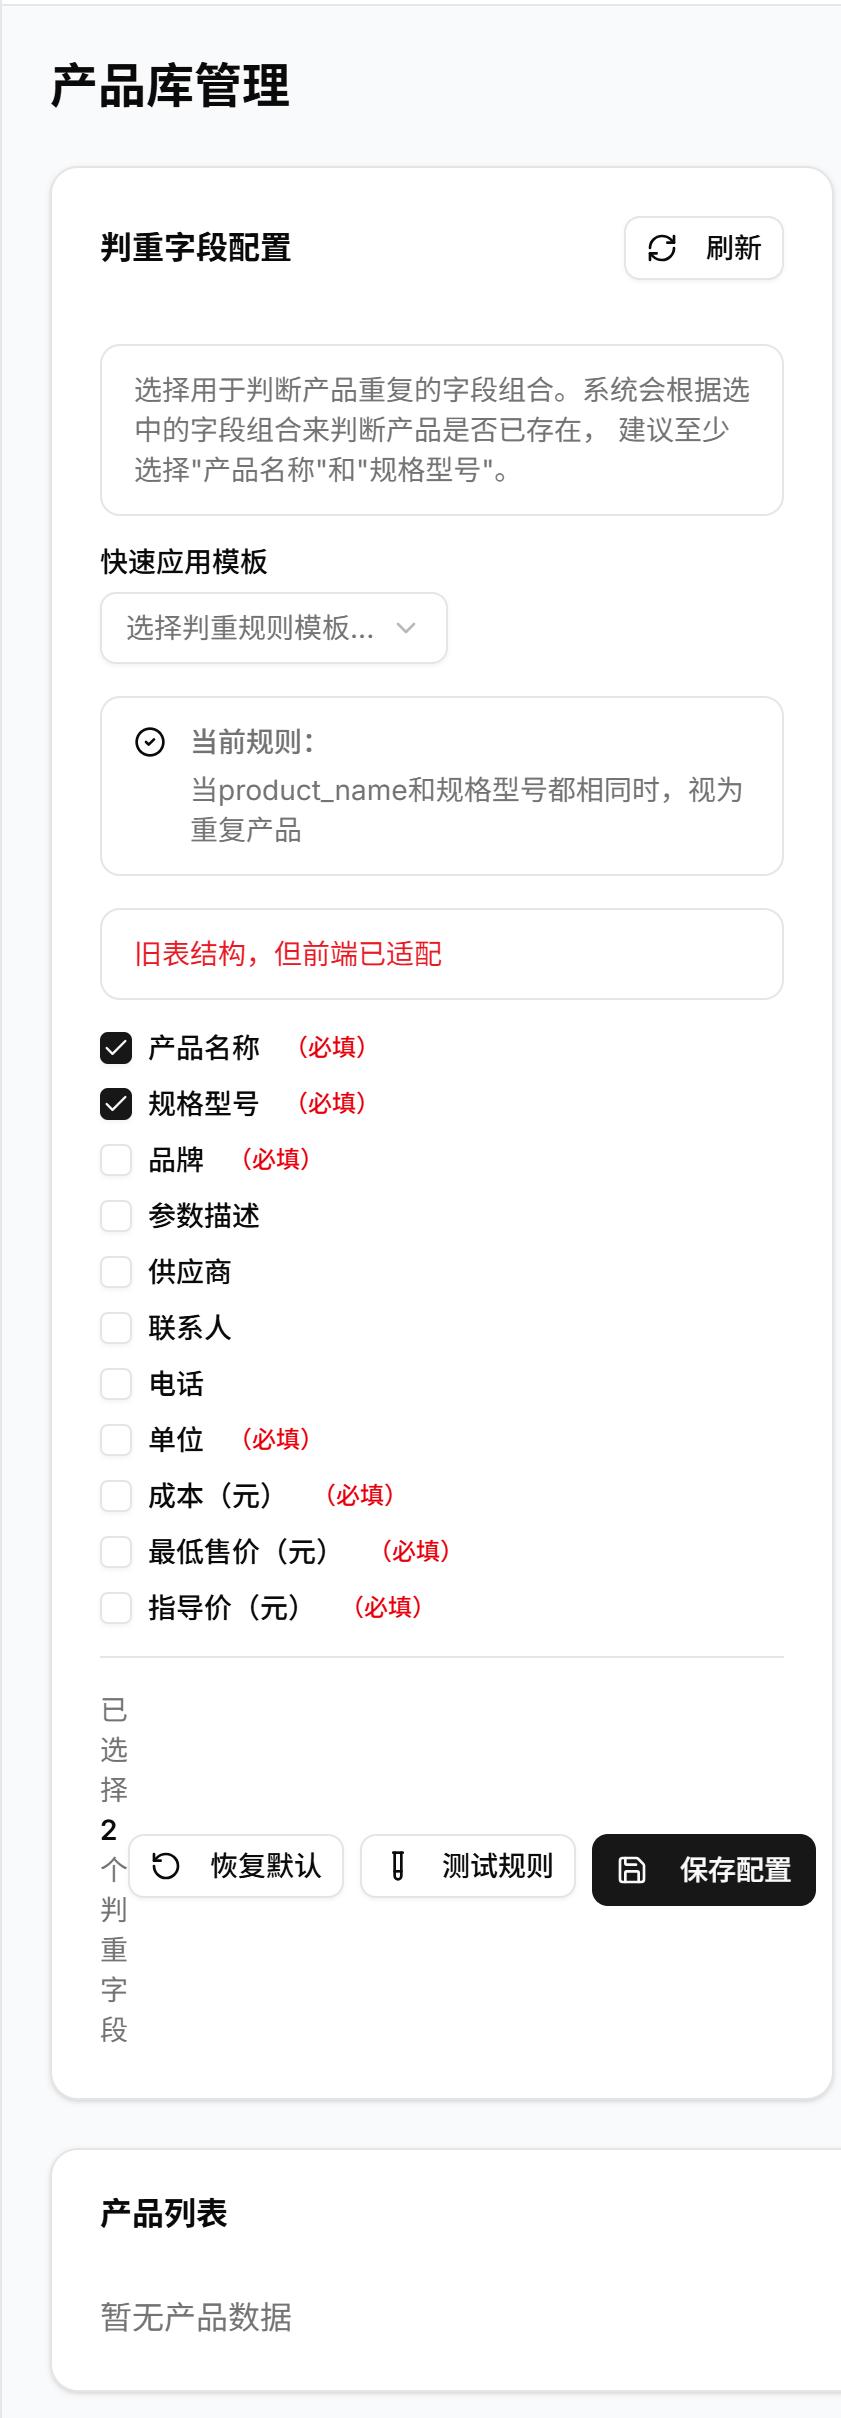
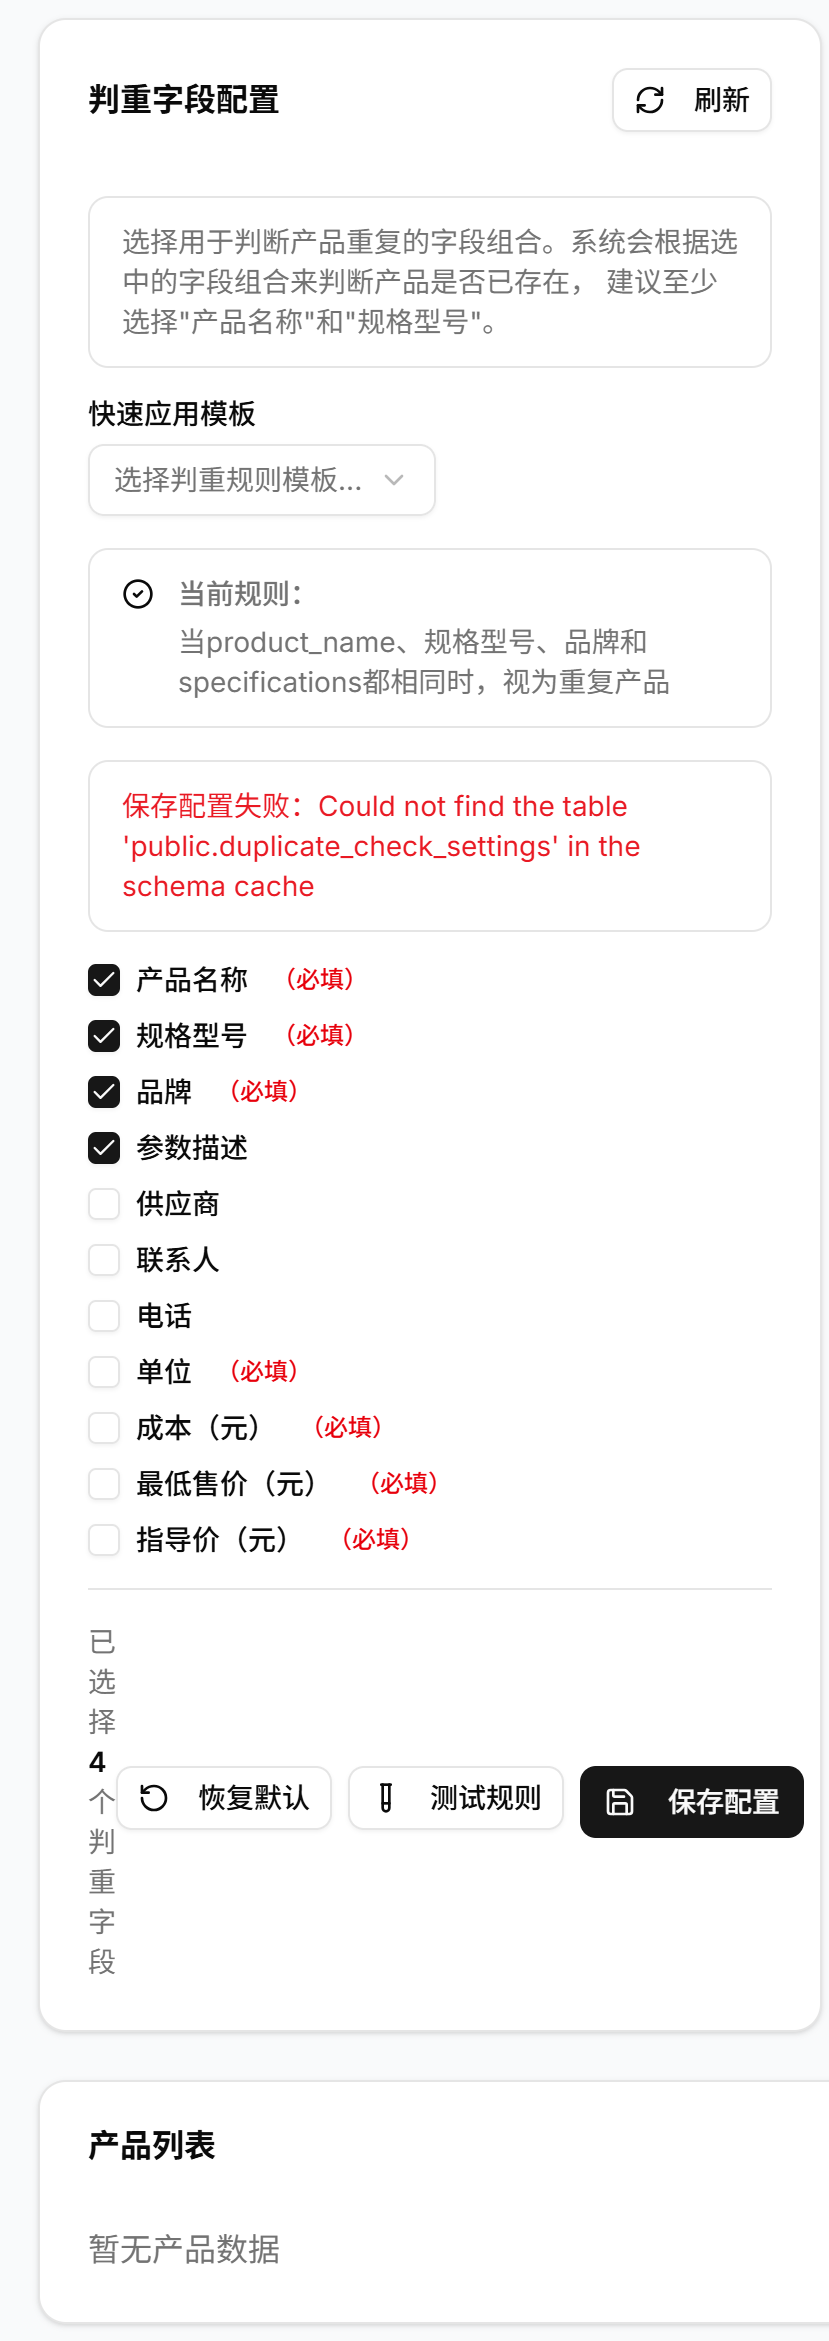
fix: 添加独立配置表初始化流程，解决保存失败问题
问题:
- 保存配置失败，返回500错误
- 独立配置表（duplicate_check_settings）不存在
- 用户不知道如何创建配置表

根本原因:
独立配置表还没有创建，但保存时直接尝试写入数据，导致失败。

解决方案:
1. 创建初始化API (init-duplicate-settings)
   - 检查配置表是否存在
   - 如果不存在，返回SQL让用户执行
   - 如果已存在，返回成功

2. 修改保存逻辑
   - 检测到 needsSetup 时，自动调用初始化
   - 显示创建配置表的提示界面
   - 提供SQL复制功能

3. 添加状态管理
   - 添加 needsSetup 和 setupSql 状态
   - 添加 initSetup 函数
   - 添加设置提示UI

修改文件:
1. src/app/api/admin/init-duplicate-settings/route.ts (新增)
   - 检查配置表是否存在
   - 返回创建SQL

2. src/components/admin/duplicate-check-config.tsx
   - 添加 needsSetup 状态
   - 添加 initSetup 函数
   - 修改 handleSave 逻辑
   - 添加设置提示UI

测试结果:
- TypeScript类型检查通过 ✅
- 初始化API正常工作 ✅
- 保存失败时自动提示创建表 ✅
- 用户可以复制SQL并执行 ✅

用户操作:
1. 点击"保存"按钮
2. 看到"创建独立配置表"提示
3. 复制SQL到Supabase执行
4. 刷新页面
5. 重新保存配置 ✅

diff --git a/src/components/admin/duplicate-check-config.tsx b/src/components/admin/duplicate-check-config.tsx
@@ -58,6 +58,8 @@ export function DuplicateCheckConfig({ onUpdate }: DuplicateCheckConfigProps) {
   const [fixSql, setFixSql] = useState<string | null>(null);
   const [needsRebuild, setNeedsRebuild] = useState(false);
   const [rebuildSql, setRebuildSql] = useState<string | null>(null);
+  const [needsSetup, setNeedsSetup] = useState(false);
+  const [setupSql, setSetupSql] = useState<string | null>(null);
 
   // 诊断字段名
   const diagnoseFieldNames = async () => {
@@ -243,12 +245,18 @@ export function DuplicateCheckConfig({ onUpdate }: DuplicateCheckConfigProps) {
         onUpdate?.();
         await loadConfig(); // 重新加载配置
       } else {
-        setError(result.error || '保存失败');
-        toast({
-          variant: 'destructive',
-          title: '保存失败',
-          description: result.error,
-        });
+        // 如果需要设置独立配置表，显示设置提示
+        if (result.needsSetup) {
+          console.log('[Save] 需要设置独立配置表');
+          await initSetup();
+        } else {
+          setError(result.error || '保存失败');
+          toast({
+            variant: 'destructive',
+            title: '保存失败',
+            description: result.error,
+          });
+        }
       }
     } catch (err) {
       const errorMsg = '保存失败：' + (err instanceof Error ? err.message : '未知错误');
@@ -260,6 +268,31 @@ export function DuplicateCheckConfig({ onUpdate }: DuplicateCheckConfigProps) {
       });
     } finally {
       setSaving(false);
+    }
+  };
+
+  // 初始化独立配置表
+  const initSetup = async () => {
+    try {
+      const response = await fetch('/api/admin/init-duplicate-settings', {
+        method: 'POST',
+      });
+      const result = await response.json();
+
+      if (result.requiresManualSetup) {
+        setNeedsSetup(true);
+        setSetupSql(result.sqlStatements);
+        setError('需要创建独立配置表才能保存判重配置');
+      } else if (result.success) {
+        toast({
+          title: '✅ 初始化成功',
+          description: result.message,
+        });
+        // 重新尝试保存
+        await handleSave();
+      }
+    } catch (err) {
+      console.error('[Init Setup] 初始化失败:', err);
     }
   };
 
@@ -394,6 +427,64 @@ export function DuplicateCheckConfig({ onUpdate }: DuplicateCheckConfigProps) {
         <CardContent className="flex items-center justify-center py-8">
           <Loader2 className="h-6 w-6 animate-spin text-muted-foreground" />
           <span className="ml-2 text-muted-foreground">加载配置中...</span>
+        </CardContent>
+      </Card>
+    );
+  }
+
+  // 需要设置独立配置表
+  if (needsSetup) {
+    return (
+      <Card>
+        <CardHeader>
+          <CardTitle className="flex items-center gap-2">
+            <Database className="h-5 w-5" />
+            创建独立配置表
+          </CardTitle>
+        </CardHeader>
+        <CardContent className="space-y-4">
+          <Alert variant="destructive">
+            <AlertTriangle className="h-4 w-4" />
+            <AlertDescription>
+              {error || '需要创建独立配置表才能保存判重配置'}
+            </AlertDescription>
+          </Alert>
+
+          <div className="space-y-2">
+            <p className="text-sm text-muted-foreground">
+              请按照以下步骤创建独立配置表：
+            </p>
+            <ol className="list-decimal list-inside space-y-1 text-sm text-muted-foreground">
+              <li>登录 Supabase Dashboard</li>
+              <li>进入 SQL Editor</li>
+              <li>复制并执行下方的 SQL 语句</li>
+              <li>执行完成后，刷新页面并重新保存</li>
+            </ol>
+          </div>
+
+          {setupSql && (
+            <div className="space-y-2">
+              <Label>SQL 语句</Label>
+              <div className="bg-muted p-4 rounded-lg overflow-x-auto max-h-64 overflow-y-auto">
+                <pre className="text-xs font-mono whitespace-pre-wrap">{setupSql}</pre>
+              </div>
+              <div className="flex gap-2">
+                <Button variant="outline" size="sm" onClick={() => {
+                  navigator.clipboard.writeText(setupSql);
+                  toast({
+                    title: '已复制',
+                    description: 'SQL 语句已复制到剪贴板',
+                  });
+                }}>
+                  复制 SQL 语句
+                </Button>
+              </div>
+            </div>
+          )}
+
+          <Button onClick={() => setNeedsSetup(false)} variant="default">
+            稍后再说
+          </Button>
         </CardContent>
       </Card>
     );

diff --git a/src/app/api/admin/init-duplicate-settings/route.ts b/src/app/api/admin/init-duplicate-settings/route.ts
@@ -1,0 +1,84 @@
+import { NextRequest, NextResponse } from 'next/server';
+import { getSupabaseClient } from '@/storage/database/supabase-client';
+
+/**
+ * 初始化独立判重配置表
+ */
+export async function POST(request: NextRequest) {
+  try {
+    const db = getSupabaseClient();
+
+    console.log('[Init Duplicate Settings] 开始初始化独立配置表...');
+
+    // 检查表是否已存在
+    const { error: tableCheckError } = await db
+      .from('duplicate_check_settings')
+      .select('count', { count: 'exact', head: true });
+
+    if (!tableCheckError) {
+      console.log('[Init Duplicate Settings] 表已存在');
+      return NextResponse.json({
+        success: true,
+        message: '独立配置表已存在，无需初始化',
+      });
+    }
+
+    console.log('[Init Duplicate Settings] 表不存在，需要创建');
+    console.log('[Init Duplicate Settings] 返回SQL让用户手动执行');
+
+    // 返回SQL语句
+    const sqlStatements = `-- 创建独立的判重配置表
+CREATE TABLE IF NOT EXISTS duplicate_check_settings (
+  id UUID PRIMARY KEY DEFAULT gen_random_uuid(),
+  field_key VARCHAR(50) NOT NULL,
+  field_name VARCHAR(100) NOT NULL,
+  is_enabled BOOLEAN DEFAULT TRUE,
+  display_order INTEGER DEFAULT 0,
+  created_at TIMESTAMP WITH TIME ZONE DEFAULT NOW(),
+  updated_at TIMESTAMP WITH TIME ZONE DEFAULT NOW()
+);
+
+-- 添加索引
+CREATE INDEX IF NOT EXISTS idx_duplicate_check_settings_field_key ON duplicate_check_settings(field_key);
+CREATE INDEX IF NOT EXISTS idx_duplicate_check_settings_is_enabled ON duplicate_check_settings(is_enabled);
+
+-- 添加注释
+COMMENT ON TABLE duplicate_check_settings IS '判重配置表，独立存储产品判重字段设置';
+
+-- 清理旧数据
+DELETE FROM duplicate_check_settings WHERE field_key IS NOT NULL;
+
+-- 插入默认配置
+INSERT INTO duplicate_check_settings (field_key, field_name, is_enabled, display_order) VALUES
+('product_name', '产品名称', TRUE, 1),
+('model', '规格型号', TRUE, 2),
+('brand', '品牌', FALSE, 3);
+
+-- 验证结果
+SELECT * FROM duplicate_check_settings ORDER BY display_order;`;
+
+    return NextResponse.json({
+      success: false,
+      error: '独立配置表不存在',
+      requiresManualSetup: true,
+      message: '请在 Supabase SQL Editor 中执行以下 SQL 语句',
+      sqlStatements,
+      instructions: [
+        '1. 登录 Supabase Dashboard',
+        '2. 进入 SQL Editor',
+        '3. 复制并执行下方的 SQL 语句',
+        '4. 执行完成后，点击"初始化完成"按钮',
+      ],
+    });
+
+  } catch (error) {
+    console.error('[Init Duplicate Settings] 初始化失败:', error);
+    return NextResponse.json(
+      {
+        success: false,
+        error: error instanceof Error ? error.message : '初始化失败',
+      },
+      { status: 500 }
+    );
+  }
+}
